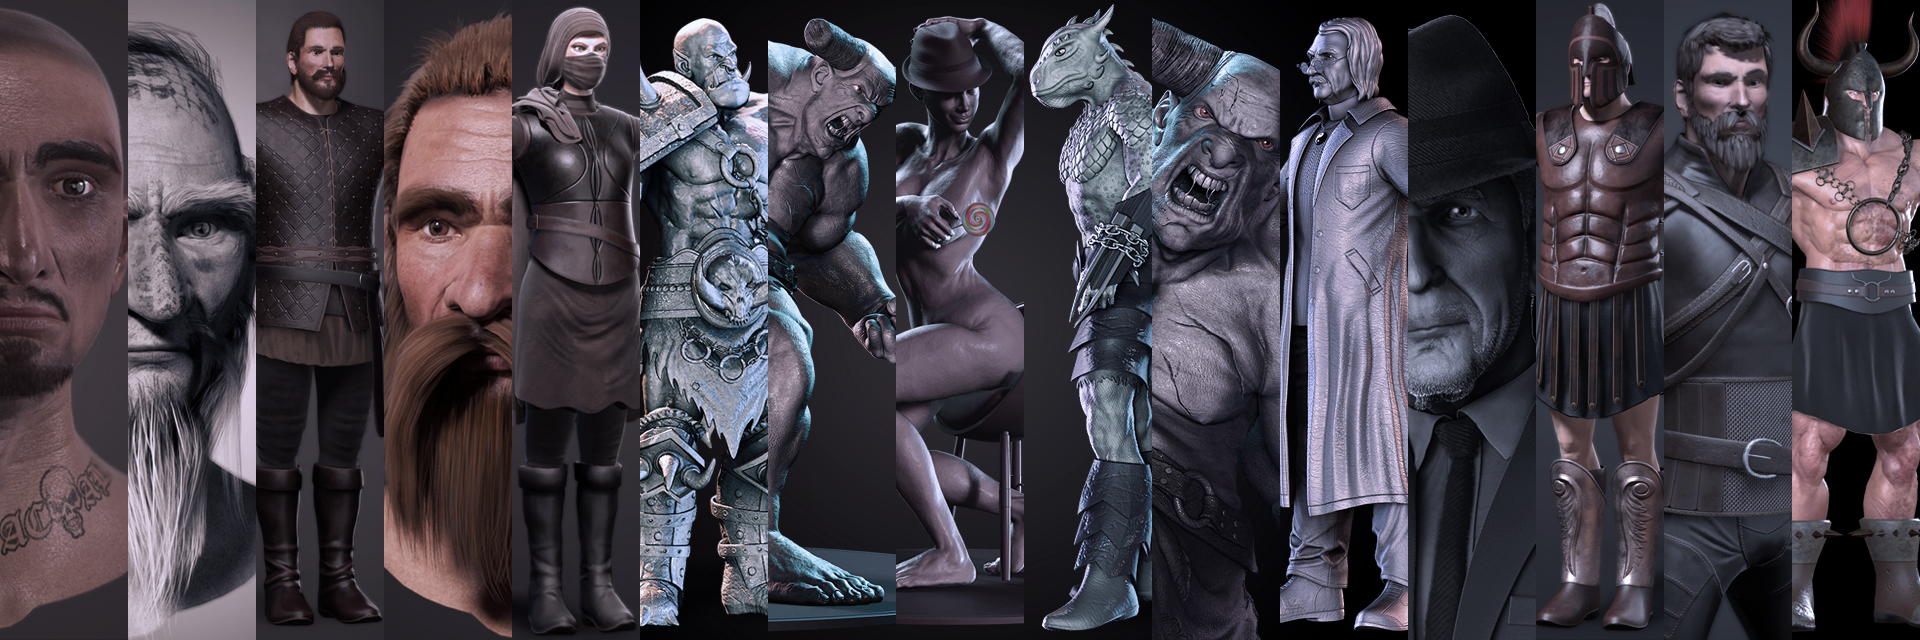
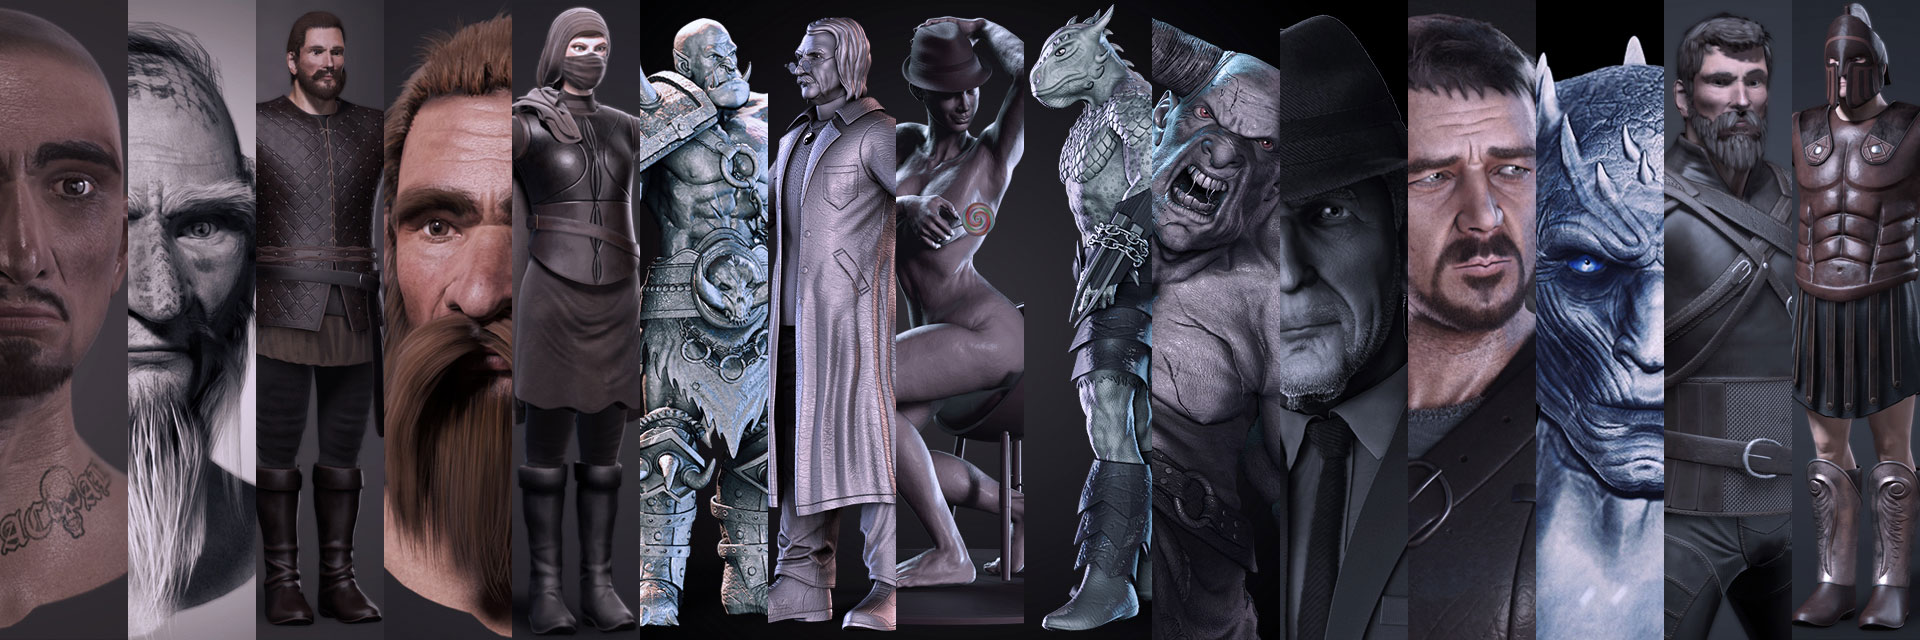
new portfolio post

Changed region(s): [[0.6562, 0.0, 0.875, 1.0], [0.9062, 0.0, 1.0, 1.0], [0.375, 0.0312, 0.4688, 1.0]]

diff --git a/_posts/portfolio/2018-07-01-Minotaur-Action-Figure.md b/_posts/portfolio/2018-07-01-Minotaur-Action-Figure.md
@@ -6,8 +6,8 @@ tags: fantasy sculpture
 categories:
   - portfolio
 excerpt: This is my own take on the Minotaur of the ancient Greek mythology.
-image: /images/characters/minotaur_action_figure/minotaur_statue_by_hossimo_01_square.jpg
-image-sm: /images/characters/minotaur_action_figure/minotaur_statue_by_hossimo_01_square.jpg
+image: /images/characters/minotaur_action_figure/minotaur_statue_by_hossimo_04_square.jpg
+image-sm: /images/characters/minotaur_action_figure/minotaur_statue_by_hossimo_04_square.jpg
 featured: true
 showtags: true
 artstation: https://www.artstation.com/artwork/Lq1kP
@@ -17,7 +17,7 @@ artstation: https://www.artstation.com/artwork/Lq1kP
 
 I tried a couple of cool techniques on this one. I created it to try to show the mood better, and also to improve my skill set. I developed my own workflow for such works during this fun project; which I'm gonna talk about.
 
-<img src="/images/characters/minotaur_action_figure/minotaur_statue_by_hossimo_02_square.jpg" alt="minotaur_statue_by_hossimo_02_square" class="responsive">
+<img src="/images/characters/minotaur_action_figure/minotaur_statue_by_hossimo_01_square.jpg" alt="minotaur_statue_by_hossimo_01_square" class="responsive">
 
 ### Sculpting and Posing Process<br />
 
@@ -25,7 +25,7 @@ I already had the basic [A-Pose](/portfolio/Minotaur/) done, so all I had to do 
 
 For such complicated poses, I find it hard to try using zbrush's Transpose Master. So I sent my low res mesh to Maya, rigged it -since I'm comfortable with rigging in Maya- and then posed it. I brought back my character into zbrush, and projected all the details back to my mesh using Displacement maps and continued sculpting some pose-related details and volumes.<br />
 <br />
-<img src="/images/characters/minotaur_action_figure/minotaur_statue_by_hossimo_03_square.jpg" alt="minotaur_statue_by_hossimo_03_square" class="responsive">
+<img src="/images/characters/minotaur_action_figure/minotaur_statue_by_hossimo_02_square.jpg" alt="minotaur_statue_by_hossimo_02_square" class="responsive">
 
 
 Also, I changed some of my artistic decisions along the way, in comparison to what I had originally.<br />
@@ -34,7 +34,7 @@ I used SnakeHook and Slash2 brushes to sculpt the cloth details.<br />
 
 I rendered it using ZBrush. Just created a couple of renderpasses and composed them in Photoshop.<br />
 <br />
-<img src="/images/characters/minotaur_action_figure/minotaur_statue_by_hossimo_04_square.jpg" alt="minotaur_statue_by_hossimo_04_square" class="responsive">
+<img src="/images/characters/minotaur_action_figure/minotaur_statue_by_hossimo_03_square.jpg" alt="minotaur_statue_by_hossimo_03_square" class="responsive">
 
 
 ### Inspiration<br />

diff --git a/_posts/portfolio/2018-08-14-Russell-Crowe.md b/_posts/portfolio/2018-08-14-Russell-Crowe.md
@@ -1,0 +1,40 @@
+---
+layout: post
+title: Gladiator Tribute
+date: 2018-08-14
+tags: realistic likeness
+categories:
+  - portfolio
+excerpt: I've done this as a tribute to my favorite actor, Russell Crowe and also one of my favorite movies, Gladiator.
+image: /images/characters/russell_crowe/gladiator_tribute_2_by_hossimo_square.jpg
+image-sm: /images/characters/russell_crowe/gladiator_tribute_2_by_hossimo_square.jpg
+featured: true
+showtags: true
+artstation: https://www.artstation.com/artwork/vlQZD
+---
+## Gladiator Tribute
+
+
+I was going to try a couple of new techniques on some piece that adds a bit of variety to my portfolio. So I picked Russell Crowe.
+
+
+### Inspiration
+
+Given my age, "*Gladiator*" was the first movie which heavily touched me emotionally. I remember how I was fascinated by it as I watched it over and over again! Basically it was only after *Gladiator* when I got deeper into movies.So I decided to pay my tribute by creating this piece.
+Hope you like it.
+	
+  <img src="/images/characters/russell_crowe/gladiator_tribute_1_by_hossimo_square.jpg" alt="gladiator_tribute_1_by_hossimo_square" class="responsive">
+
+### Sculpting Process
+
+I used a Maya for creating the base meshes, ZBrush for adding details, and Transpose Master to pose him with.
+All the accessories and clothing were done by hand.
+The hair is Fiber Mesh and It was rendered using ZBrush and composed in Photoshop.
+
+
+<img src="/images/characters/russell_crowe/gladiator_tribute_3_by_hossimo_square.jpg" alt="gladiator_tribute_3_by_hossimo_square" class="responsive">
+
+
+
+
+For higher resolution and also more images, please visit my Artstation.
